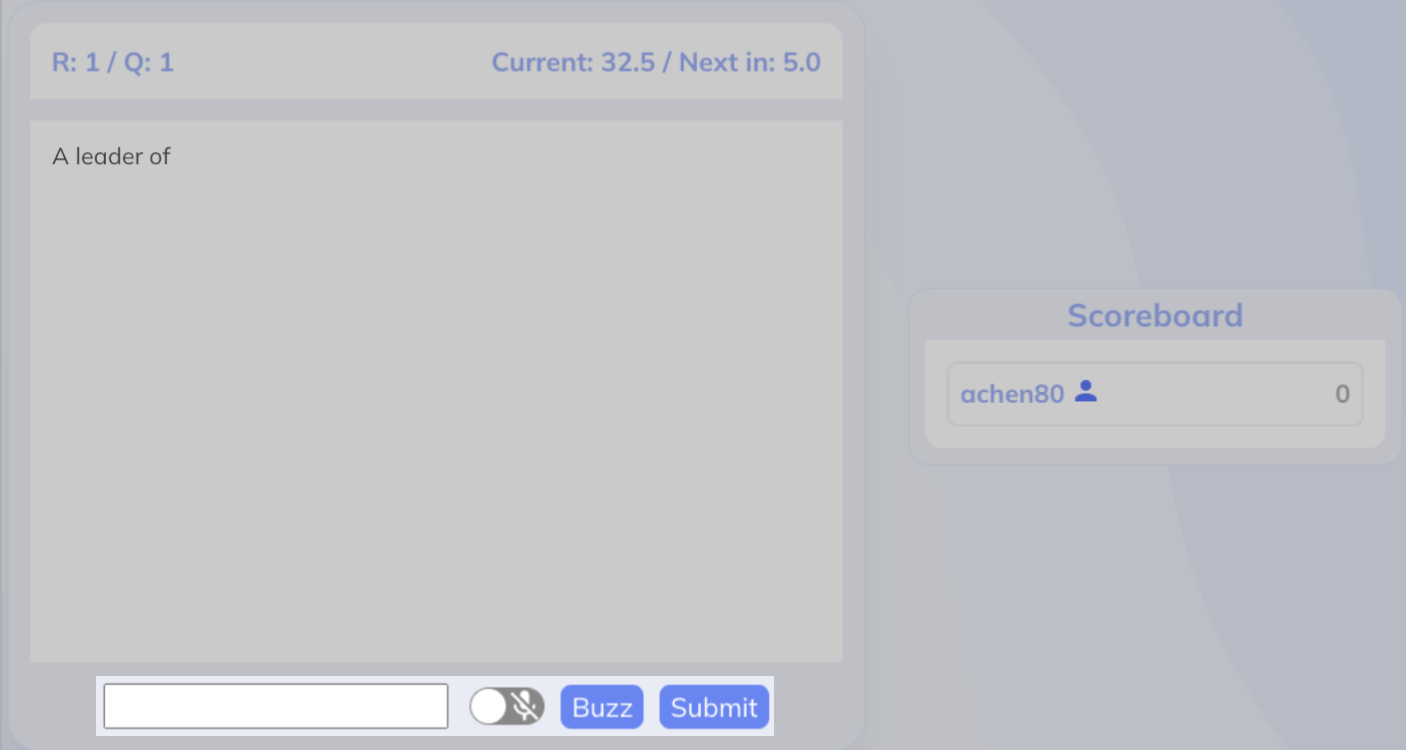
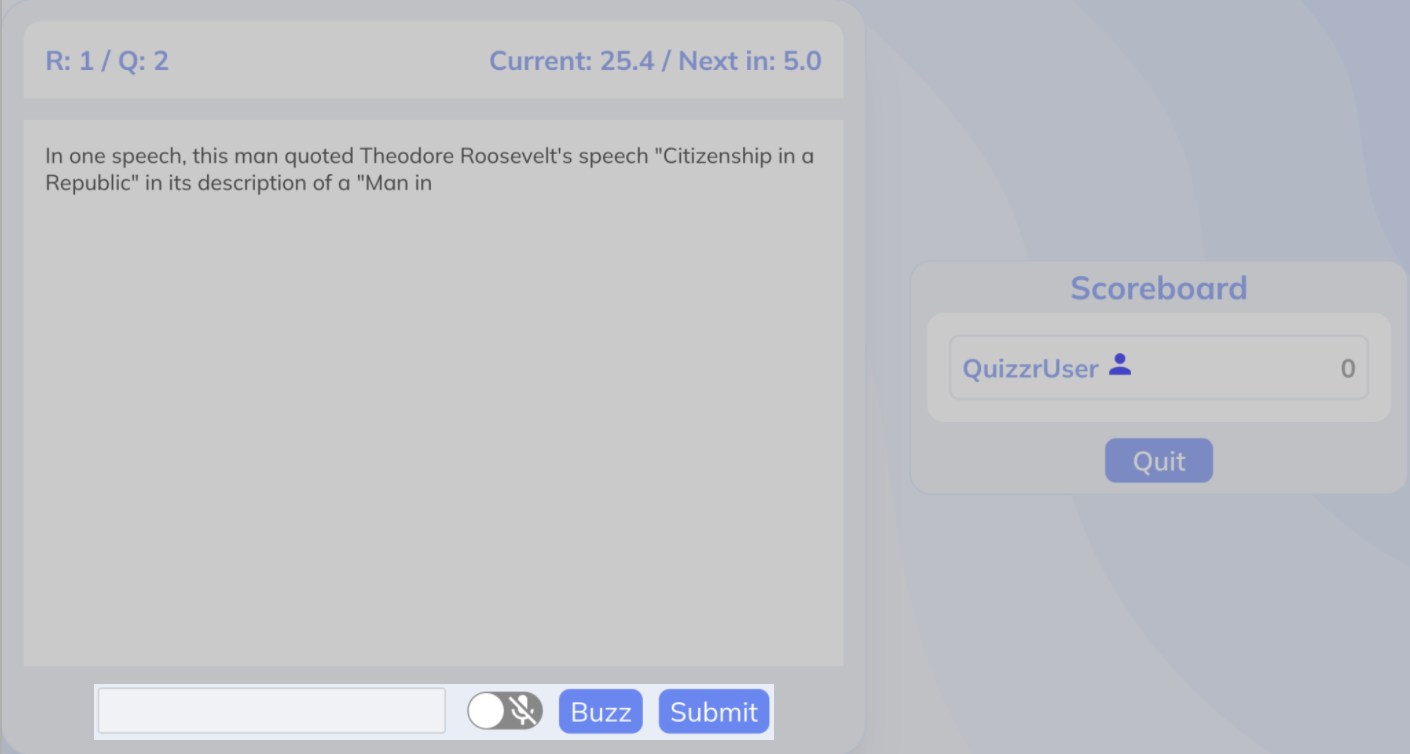
MVP fixes

diff --git a/src/components/Leaderboards.jsx b/src/components/Leaderboards.jsx
@@ -85,7 +85,7 @@ function Leaderboards() {
                 </div>
                 <div class="leaderboards-board-content-wrapper-wrapper">
                     <div class="leaderboards-board-content-wrapper">
-                        <User rank="1" rating={3798} username="bob1"/>
+                        {/* <User rank="1" rating={3798} username="bob1"/>
                         <User rank="2" rating={3564} username="bob2"/>
                         <User rank="3" rating={3543} username="bob3"/>
                         <User rank="4" rating={3489} username="bob4"/>
@@ -94,7 +94,7 @@ function Leaderboards() {
                         <User rank="7" rating={3364} username="bob7"/>
                         <User rank="8" rating={3362} username="bob8"/>
                         <User rank="9" rating={3351} username="bob9"/>
-                        <User rank="10" rating={3340} username="bob10"/>
+                        <User rank="10" rating={3340} username="bob10"/> */}
                     </div>
                 </div>
                 
@@ -105,18 +105,18 @@ function Leaderboards() {
                 </div>
                 <div class="leaderboards-topics-title-divider"></div>
                 <div class="leaderboards-topic-list-wrapper">
-                    <Topic name="Overall" rank={5} percentile={0.02} self={"all"} topic={topic} setTopic={setTopic}/>
-                    <Topic name="Current Events" rank={5} percentile={0.02} self={"currentevents"} topic={topic} setTopic={setTopic}/>
-                    <Topic name="Fine Arts" rank={5} percentile={0.02} self={"finearts"} topic={topic} setTopic={setTopic}/>
-                    <Topic name="Geography" rank={5} percentile={0.02} self={"geography"} topic={topic} setTopic={setTopic}/>
-                    <Topic name="History" rank={5} percentile={0.02} self={"history"} topic={topic} setTopic={setTopic}/>
-                    <Topic name="Literature" rank={5} percentile={0.02} self={"literature"} topic={topic} setTopic={setTopic}/>
-                    <Topic name="Mythology" rank={5} percentile={0.02} self={"mythology"} topic={topic} setTopic={setTopic}/>
-                    <Topic name="Philosophy" rank={5} percentile={0.02} self={"philosophy"} topic={topic} setTopic={setTopic}/>
-                    <Topic name="Religion" rank={5} percentile={0.02} self={"religion"} topic={topic} setTopic={setTopic}/>
-                    <Topic name="Science" rank={5} percentile={0.02} self={"science"} topic={topic} setTopic={setTopic}/>
-                    <Topic name="Social Science" rank={5} percentile={0.02} self={"socialscience"} topic={topic} setTopic={setTopic}/>
-                    <Topic name="Trash" rank={5} percentile={0.02} self={"trash"} topic={topic} setTopic={setTopic}/>
+                    <Topic name="Overall" rank="--" percentile="--" self={"all"} topic={topic} setTopic={setTopic}/>
+                    <Topic name="Current Events" rank="--" percentile="--" self={"currentevents"} topic={topic} setTopic={setTopic}/>
+                    <Topic name="Fine Arts" rank="--" percentile="--" self={"finearts"} topic={topic} setTopic={setTopic}/>
+                    <Topic name="Geography" rank="--" percentile="--" self={"geography"} topic={topic} setTopic={setTopic}/>
+                    <Topic name="History" rank="--" percentile="--" self={"history"} topic={topic} setTopic={setTopic}/>
+                    <Topic name="Literature" rank="--" percentile="--" self={"literature"} topic={topic} setTopic={setTopic}/>
+                    <Topic name="Mythology" rank="--" percentile="--" self={"mythology"} topic={topic} setTopic={setTopic}/>
+                    <Topic name="Philosophy" rank="--" percentile="--" self={"philosophy"} topic={topic} setTopic={setTopic}/>
+                    <Topic name="Religion" rank="--" percentile="--" self={"religion"} topic={topic} setTopic={setTopic}/>
+                    <Topic name="Science" rank="--" percentile="--" self={"science"} topic={topic} setTopic={setTopic}/>
+                    <Topic name="Social Science" rank="--" percentile="--" self={"socialscience"} topic={topic} setTopic={setTopic}/>
+                    <Topic name="Trash" rank="--" percentile="--" self={"trash"} topic={topic} setTopic={setTopic}/>
                 </div>
             </div>
         </div>

diff --git a/src/components/Play.jsx b/src/components/Play.jsx
@@ -179,7 +179,10 @@ function GamemodeBtn(props) {
     }
     
     return (
-        <div className={"play-gamemode-btn " + (props.gamemode === props.self ? "play-gamemode-btn-selected" : "")} onClick={setGamemodeHandler}>
+        <div className={"play-gamemode-btn " + (props.gamemode === props.self ? "play-gamemode-btn-selected" : "")} onClick={ () => {
+            document.location.hash = props.self;
+            props.setGamemode(props.self);
+        }}>
             {props.name}
         </div>
     );
@@ -279,36 +282,36 @@ function JoinCustomLobbyCard(props) {
 
 // play page hook
 function Play(props) {
-    const [gamemode, setGamemode] = useState(0);
+    const [gamemode, setGamemode] = useState("casual");
 
     return (
         <div class="play-content-wrapper">
             <div class="play-gamemode-wrapper">
-                <GamemodeBtn name={"Casual"} self={0} gamemode={gamemode} setGamemode={setGamemode}/>
-                <GamemodeBtn name={"Ranked"} self={1} gamemode={gamemode} setGamemode={setGamemode}/>
-                <GamemodeBtn name={"Solo"} self={2} gamemode={gamemode} setGamemode={setGamemode}/>
-                <GamemodeBtn name={"Custom"} self={3} gamemode={gamemode} setGamemode={setGamemode}/>
+                <GamemodeBtn name={"Casual"} self={"casual"} gamemode={gamemode} setGamemode={setGamemode}/>
+                <GamemodeBtn name={"Ranked"} self={"ranked"} gamemode={gamemode} setGamemode={setGamemode}/>
+                <GamemodeBtn name={"Solo"} self={"solo"} gamemode={gamemode} setGamemode={setGamemode}/>
+                <GamemodeBtn name={"Custom"} self={"custom"} gamemode={gamemode} setGamemode={setGamemode}/>
             </div>
 
             <div class="play-gamemodecards-wrapper">
-                { gamemode === 0 && // casual
+                { gamemode === "casual" && // casual
                     <>
                         <GamemodeComingSoonCard icon={GamemodeIcon1}/>
                         <GamemodeComingSoonCard icon={GamemodeIcon6}/>
                     </>
                 }
-                { gamemode === 1 && // Ranked
+                { gamemode === "ranked" && // Ranked
                     <>
                         <GamemodeComingSoonCard icon={GamemodeIcon3}/>
                         <GamemodeComingSoonCard icon={GamemodeIcon2}/>
                     </>
                 }
-                { gamemode === 2 && // Solo
+                { gamemode === "solo" && // Solo
                     <>
                         <GamemodeComingSoonCard icon={GamemodeIcon5}/>
                     </>
                 }
-                { gamemode === 3 && // Custom
+                { gamemode === "custom" && // Custom
                     <>
                         <GamemodeCard icon={GamemodeIcon4} gamesettings={gameSettingsList[5]}/>
                         <JoinCustomLobbyCard icon={GamemodeIcon7}/>

diff --git a/src/components/WhitePanel.jsx b/src/components/WhitePanel.jsx
@@ -96,6 +96,7 @@ function LoginBody(props) {
                     // Handle error
                   });
                 setScreen(-1);
+                document.location.hash = "dashboard";
             } else {
                 return;
             }
@@ -170,11 +171,11 @@ function Sidenav(props) {
             <div class="sidenav-logo-title">Quizzr</div>
             <div class="sidenav-logo-subtitle"><b>the</b> quiz game</div>
             <div class="sidenav-tabs-wrapper">
-                <SidenavItem label="Profile" icon={<AccountCircleIcon style={{color: MainColor}}/>} setScreen={() => props.setScreen(1)} textColor={MainColor}/>
-                <SidenavItem label="Dashboard" icon={<DashboardIcon style={{color: MainColor}}/>} setScreen={() => props.setScreen(2)} textColor={MainColor}/>
-                <SidenavItem label="Play" icon={<OfflineBoltIcon style={{color: MainColor}}/>} setScreen={() => props.setScreen(3)} textColor={MainColor}/>
-                <SidenavItem label="Shop" icon={<StorefrontIcon style={{color: MainColor}}/>} setScreen={() => props.setScreen(4)} textColor={MainColor}/>
-                <SidenavItem label="Leaderboards" icon={<BarChartIcon style={{color: MainColor}}/>} setScreen={() => props.setScreen(5)} textColor={MainColor}/>
+                <SidenavItem label="Profile" icon={<AccountCircleIcon style={{color: MainColor}}/>} setScreen={() => {props.setScreen(1); document.location.hash = "profile";}} textColor={MainColor}/>
+                <SidenavItem label="Dashboard" icon={<DashboardIcon style={{color: MainColor}}/>} setScreen={() => {props.setScreen(2); document.location.hash = "dashboard";}} textColor={MainColor}/>
+                <SidenavItem label="Play" icon={<OfflineBoltIcon style={{color: MainColor}}/>} setScreen={() => {props.setScreen(3); document.location.hash = "play";}} textColor={MainColor}/>
+                <SidenavItem label="Shop" icon={<StorefrontIcon style={{color: MainColor}}/>} setScreen={() => {props.setScreen(4); document.location.hash = "shop";}} textColor={MainColor}/>
+                <SidenavItem label="Leaderboards" icon={<BarChartIcon style={{color: MainColor}}/>} setScreen={() => {props.setScreen(5); document.location.hash = "leaderboards";}} textColor={MainColor}/>
                 <SidenavItem label="Logout" icon={<ExitToAppIcon style={{color: LogoutColor}}/>} textColor={LogoutColor} setScreen={() => firebase.auth().signOut()}/>
             </div>
         </div>

diff --git a/src/components/Lobby.jsx b/src/components/Lobby.jsx
@@ -183,7 +183,7 @@ function Lobby() {
                                 <div onClick={() => {
                                     updateSettings({'teams': 0});
                                 }} className={"lobby-gamesettings-selector-item " + (gameSettings['teams'] === 0 ? "lobby-gamesettings-selector-selected" : "")}>
-                                    0
+                                    None (FFA)
                                 </div>
                                 <div onClick={() => {
                                     updateSettings({'teams': 2});
@@ -234,7 +234,7 @@ function Lobby() {
                             </div>
                         </div>
                         <div class="lobby-gamesettings-setting-wrapper">
-                            <div>Time between questions</div>
+                            <div>Time between questions (s)</div>
                             <div class="lobby-gamesettings-hor-flex">
                                 <div class="lobby-gamesettings-slider-wrapper">
                                     <Slider
@@ -253,7 +253,7 @@ function Lobby() {
                             </div>
                         </div>
                         <div class="lobby-gamesettings-setting-wrapper">
-                            <div>Buzz time after questions</div>
+                            <div>Buzz time after questions (s)</div>
                             <div class="lobby-gamesettings-hor-flex">
                                 <div class="lobby-gamesettings-slider-wrapper">
                                     <Slider
@@ -287,7 +287,7 @@ function Lobby() {
                             Players {typeof gameSettings['players'][0] === 'string' ? gameSettings['players'].length : gameSettings['players'][0].length + gameSettings['players'][1].length}/{gameSettings['max_players']}
                         </div>
                         <div>
-                            Room: {lobbyCode}
+                            Lobby: {lobbyCode}
                         </div>
                     </div>
                     {typeof gameSettings['players'][0] === 'string' &&

diff --git a/src/components/Game.jsx b/src/components/Game.jsx
@@ -94,6 +94,8 @@ function PostgamePlayerCard(props) {
 
 // teamcard wrapping playercards
 function TeamCard(props) {
+  const [screen, setScreen] = useRecoilState(SCREEN);
+  const [playScreen, setPlayScreen] = useRecoilState(PLAY_SCREEN);
   if (props.points[0] === undefined) {
     const pointsArray = [];
     for (const key in props.points) {
@@ -118,6 +120,15 @@ function TeamCard(props) {
               buzzTime={props.buzzTime}
             />
           ))}
+        </div>
+        <div
+          onClick={() => {
+            setPlayScreen(0);
+            setScreen(3);
+          }}
+          class="game-quitbtn"
+        >
+          Quit
         </div>
       </div>
     );

diff --git a/src/styles/Game.css b/src/styles/Game.css
@@ -88,8 +88,7 @@
     flex-direction: column;
     align-items: center;
     padding: 1rem;
-    border-bottom-left-radius: 0.8rem;
-    border-bottom-right-radius: 0.8rem;
+    border-radius: 0.8rem;
 
 }
 
@@ -244,3 +243,15 @@
 .game-postgame-color-blue {
     color: #6287F7;
     } 
+
+.game-quitbtn {
+    margin-top: 1rem;
+    padding: 0.25rem 0 0.25rem 0;
+    margin: 0 9rem 0.5rem 9rem;
+    border-radius: 0.5rem;
+    background-color: #6287F7;
+    color: white;
+    font-size: 1.25rem;
+    font-weight: 600;
+    cursor: pointer;
+}

diff --git a/src/components/AnswerBox.jsx b/src/components/AnswerBox.jsx
@@ -200,11 +200,18 @@ function AnswerBox(props) {
     console.log(answer);
   }, [answer]);
 
+  useEffect(() => {
+    if(props.buzzer !== username) {
+      props.setAnswer("");
+    }
+  }, [props.buzzer])
+
   return (
     <div class="answerbox-answering-wrapper">
       <form class="answerbox-textbox">
         <label>
           <input
+            disabled={props.buzzer !== username}
             type="text"
             name="name"
             value={props.answer}

diff --git a/src/styles/Lobby.css b/src/styles/Lobby.css
@@ -98,7 +98,7 @@
 
 .lobby-title {
     width: 100%;
-    font-size: 1.5rem;
+    font-size: 1.25rem;
     color: #6287F7;
     text-align: left;
     padding: 1rem 1.2rem 1rem 1.2rem;
